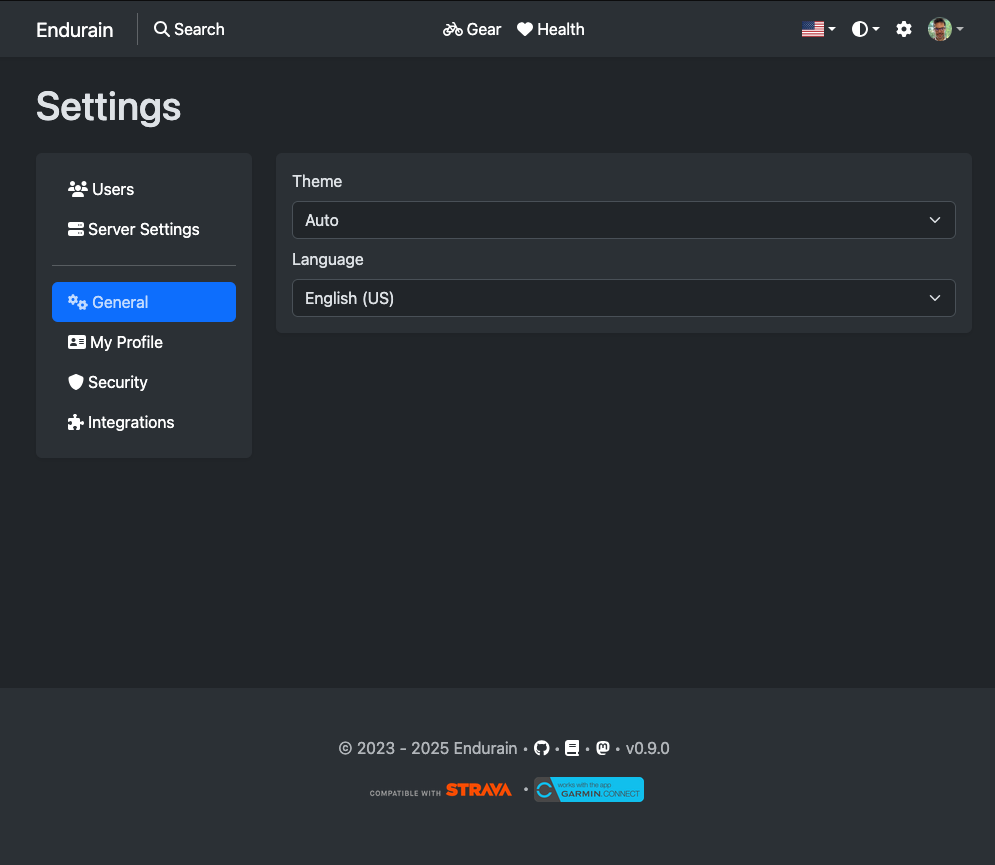
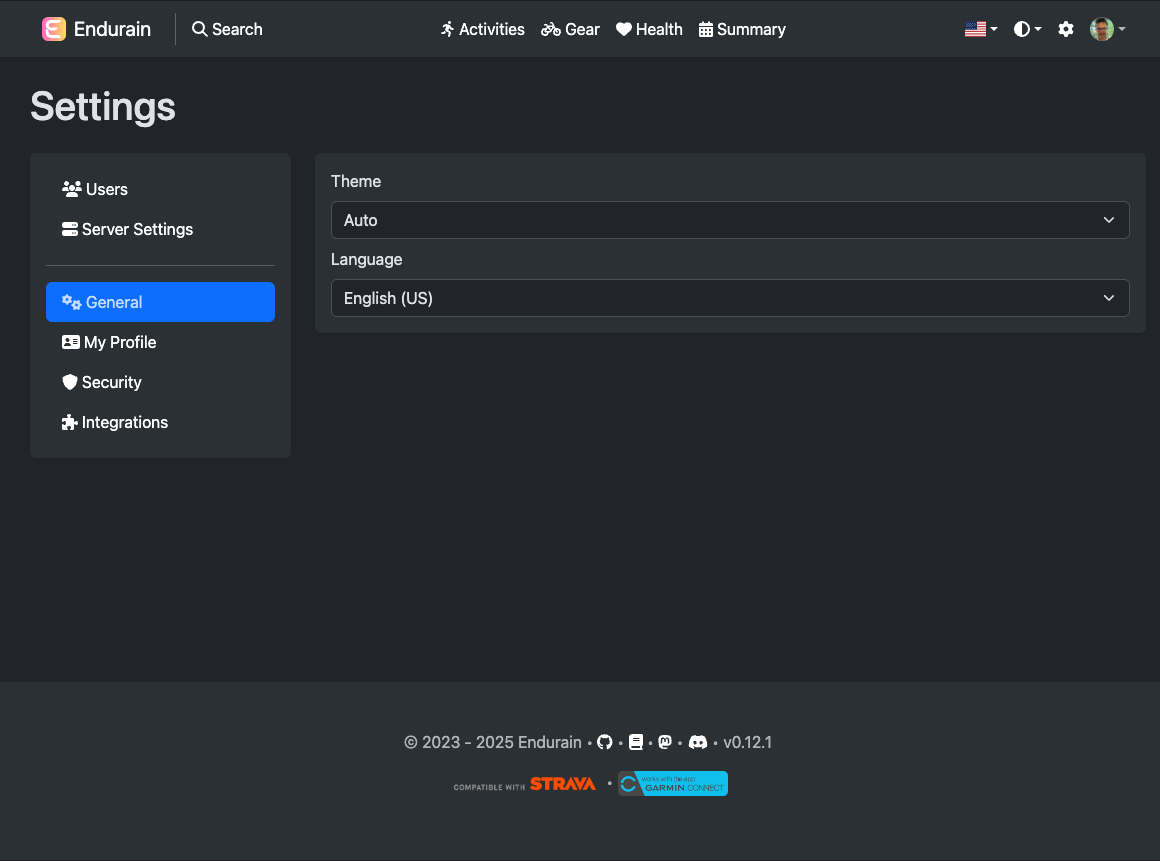
New gallery pictures

diff --git a/docs/gallery.md b/docs/gallery.md
@@ -2,12 +2,24 @@
 
 ---
 
+##### Login page
+** Image can be changed **
+![Login](assets/gallery/screenshot_login.png)
+
 ##### Home page
 ![Home](assets/gallery/screenshot_home.png)
+
+##### Search page
+![Home](assets/gallery/screenshot_search_page.png)
 
 ##### Activity page
 ![Activity page 1](assets/gallery/screenshot_activity_page_1.png)
 ![Activity page 2](assets/gallery/screenshot_activity_page_2.png)
+![Activity page 3](assets/gallery/screenshot_activity_page_3.png)
+![Activity page 4](assets/gallery/screenshot_activity_page_4.png)
+
+##### Activities pages
+![Activities page](assets/gallery/screenshot_activities_page.png)
 
 ##### Gears pages
 ![Gears page](assets/gallery/screenshot_gears_page.png)
@@ -17,14 +29,20 @@
 ![Health dashboard page](assets/gallery/screenshot_health_home.png)
 ![Health weight page](assets/gallery/screenshot_health_weight.png)
 
+##### Summary page
+![Summary page 1](assets/gallery/screenshot_summary_page_1.png)
+![Summary page 2](assets/gallery/screenshot_summary_page_2.png)
+
 ##### Profile page
-![Profile page](assets/gallery/screenshot_profile.png)
+![Profile page 1](assets/gallery/screenshot_profile_1.png)
+![Profile page 1](assets/gallery/screenshot_profile_2.png)
 
 ##### Settings pages
 ![Users administrator page](assets/gallery/screenshot_settings_user.png)
 ![Server settings page](assets/gallery/screenshot_settings_server_settings.png)
-** Users administrator and server settings pages only visible to admin users**
+** Users administrator and server settings pages only visible to admin users **
 ![Settings general page](assets/gallery/screenshot_settings_general.png)
-![Settings profile page](assets/gallery/screenshot_settings_profile.png)
+![Settings profile page 1](assets/gallery/screenshot_settings_profile_1.png)
+![Settings profile page 2](assets/gallery/screenshot_settings_profile_2.png)
 ![Settings security page](assets/gallery/screenshot_settings_security.png)
 ![Settings integrations page](assets/gallery/screenshot_settings_integrations.png)

diff --git a/SECURITY.md b/SECURITY.md
@@ -4,8 +4,8 @@
 
 | Version | Supported          |
 | ------- | ------------------ |
-| 0.10.X   | :white_check_mark: |
-| 0.9.X and earlier   | :x:                |
+| 0.12.X   | :white_check_mark: |
+| 0.11.X and earlier   | :x:                |
 
 ## Reporting a Vulnerability
 
